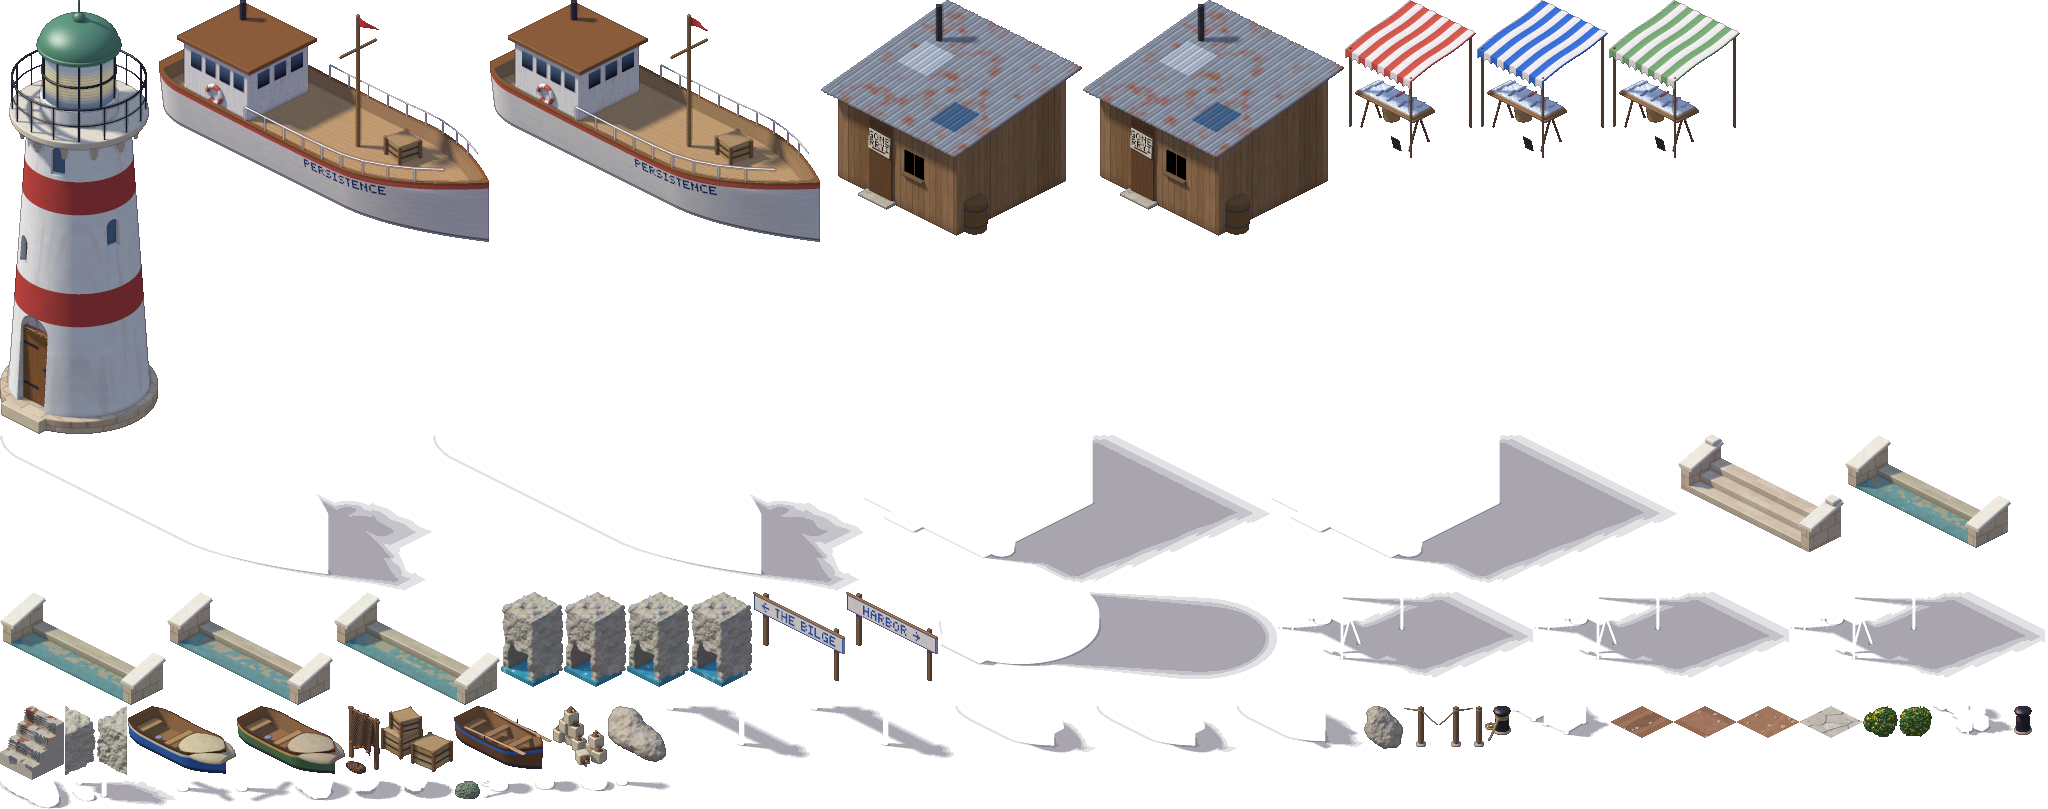
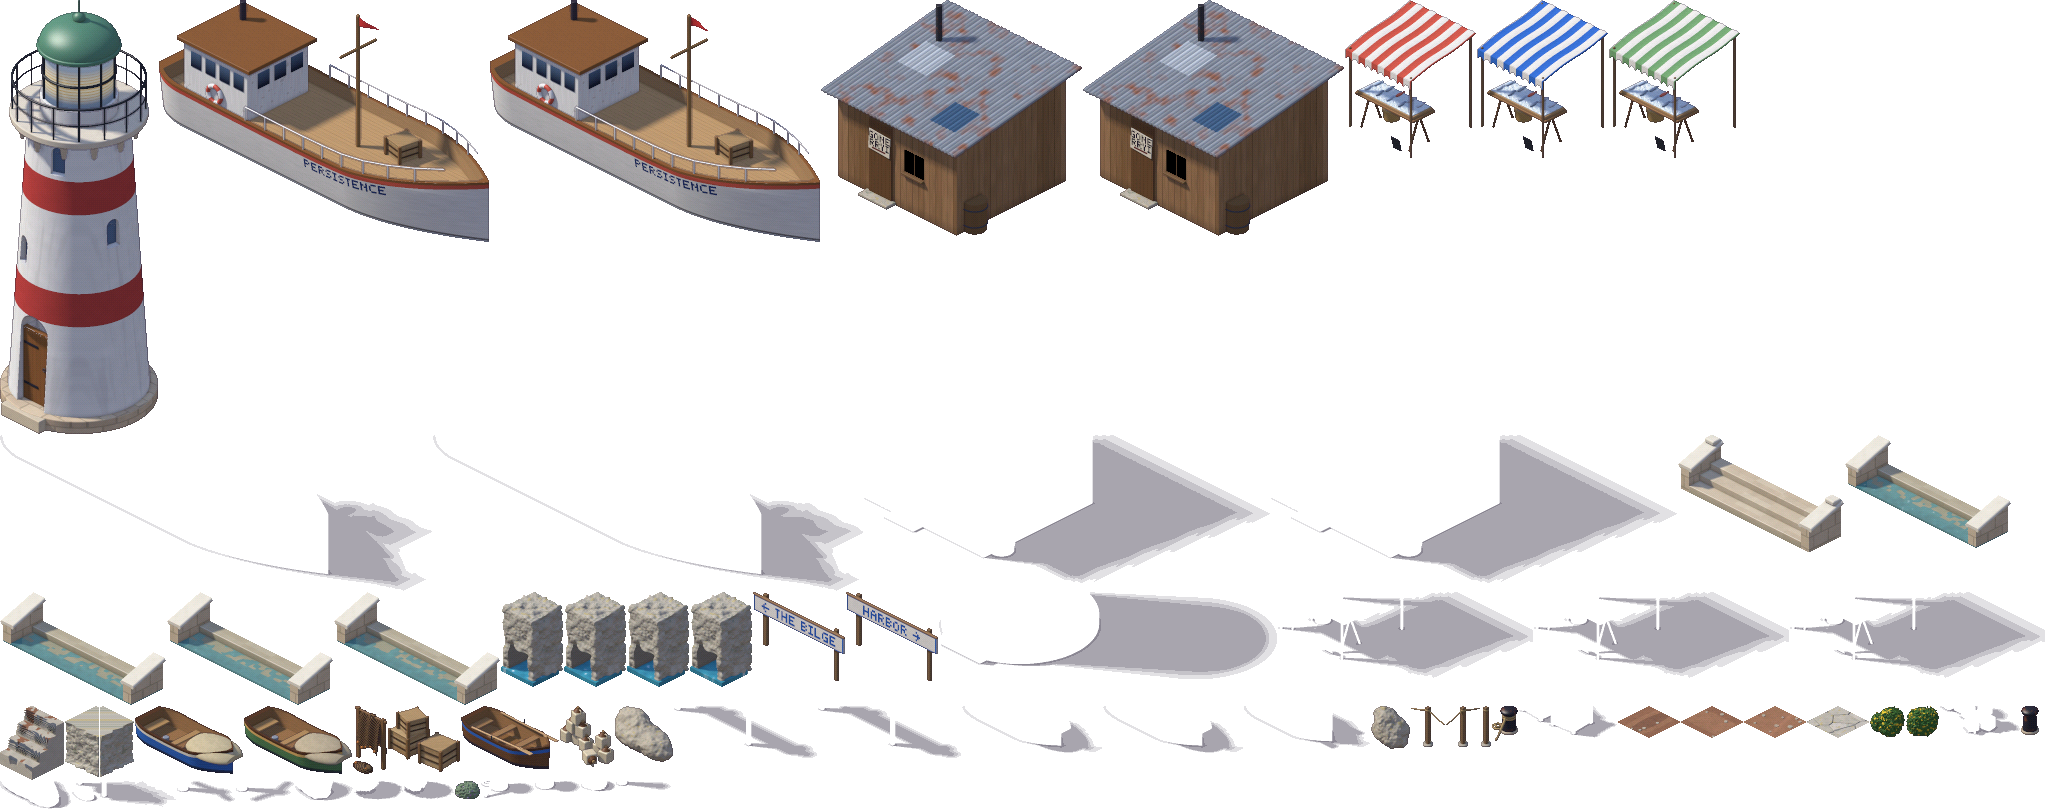
Goat Path cliffs: faces run to the tile's ends and their roughness repeats per tile and course, so neighbors meet without seams

Changed region(s): [[0.0312, 0.8653, 1.0, 0.958]]

diff --git a/game/assets/iso/manifest.js b/game/assets/iso/manifest.js
@@ -3453,18 +3453,18 @@ export default {"tile":{"w":64,"h":32,"zPx":40},"sheets":{"cheryl":{"image":"che
 "fall_down_1.shadow":[101,79,81,23,12,17]},"anims":{"water_down":{
 "frames":["water_down_0","water_down_1"],
 "ms":[700,500]}}},"act2_harbor":{"image":"act2_harbor.png","frames":{
-"bollard":[2014,706,18,29,9,25,1,1,22],
+"bollard":[2021,706,18,29,9,25,1,1,22],
 "bollard.shadow":[535,781,45,11,10,4],
-"bollard_rope":[1485,706,26,35,17,25,1,1,22],
+"bollard_rope":[1492,706,26,35,17,25,1,1,22],
 "bollard_rope.shadow":[481,781,53,17,18,6],
-"crates_pair":[381,706,72,66,36,50,2,1,40],
-"crates_pair.shadow":[1512,706,98,32,38,12],
-"nets":[346,706,34,68,18,57,1,1,52],
+"crates_pair":[388,706,72,66,36,50,2,1,40],
+"crates_pair.shadow":[1519,706,98,32,38,12],
+"nets":[353,706,34,68,18,57,1,1,52],
 "nets.shadow":[72,781,104,26,20,9],
 "sign_bilge":[753,592,92,89,48,71,3,1,52],
-"sign_bilge.shadow":[667,706,143,52,39,21],
+"sign_bilge.shadow":[674,706,143,52,39,21],
 "sign_harbor":[846,592,92,89,48,71,3,1,52],
-"sign_harbor.shadow":[811,706,143,52,39,21],
+"sign_harbor.shadow":[818,706,143,52,39,21],
 "persistence_0":[159,0,330,242,180,167,10,3,168],
 "persistence_0.shadow":[0,435,432,156,178,64],
 "persistence_1":[490,0,330,242,180,167,10,3,168],
@@ -3477,46 +3477,46 @@ export default {"tile":{"w":64,"h":32,"zPx":40},"sheets":{"cheryl":{"image":"che
 "fish_stall_blue.shadow":[1534,592,255,86,64,36],
 "fish_stall_green":[1609,0,131,158,66,126,2,2,96],
 "fish_stall_green.shadow":[1790,592,255,86,64,36],
-"rowboat":[454,706,98,63,50,44,2,1,20],
-"rowboat.shadow":[1237,706,126,43,50,16],
-"canal_boat_blue":[128,706,108,68,55,46,2,1,22],
-"canal_boat_blue.shadow":[955,706,140,47,56,18],
-"canal_boat_green":[237,706,108,68,55,46,2,1,22],
-"canal_boat_green.shadow":[1096,706,140,47,56,18],
+"rowboat":[461,706,98,63,50,44,2,1,20],
+"rowboat.shadow":[1244,706,126,43,50,16],
+"canal_boat_blue":[135,706,108,68,55,46,2,1,22],
+"canal_boat_blue.shadow":[962,706,140,47,56,18],
+"canal_boat_green":[244,706,108,68,55,46,2,1,22],
+"canal_boat_green.shadow":[1103,706,140,47,56,18],
 "wstairs_top":[1678,435,166,117,83,59,4,1,0],
 "wstairs_wet_0":[1845,435,166,113,83,47,4,1,0],
 "wstairs_wet_1":[0,592,166,113,83,47,4,1,0],
 "wstairs_wet_2":[167,592,166,113,83,47,4,1,0],
 "wstairs_wet_3":[334,592,166,113,83,47,4,1,0],
-"path_a":[1611,706,62,32,31,16,1,1,0],
-"path_b":[1674,706,62,32,31,16,1,1,0],
-"path_c":[1737,706,62,32,31,16,1,1,0],
-"rock_shelf":[1800,706,62,32,31,16,1,1,0],
+"path_a":[1618,706,62,32,31,16,1,1,0],
+"path_b":[1681,706,62,32,31,16,1,1,0],
+"path_c":[1744,706,62,32,31,16,1,1,0],
+"rock_shelf":[1807,706,62,32,31,16,1,1,0],
 "path_steps":[0,706,64,74,32,56,1,1,40],
-"cliff_s":[97,706,30,69,30,56,1,1,40],
-"cliff_e":[65,706,31,69,0,56,1,1,40],
-"rock_a":[1364,706,39,43,20,33,1,1,26],
+"cliff_s":[65,706,34,71,31,56,1,1,40],
+"cliff_e":[100,706,34,71,3,56,1,1,40],
+"rock_a":[1371,706,39,43,20,33,1,1,26],
 "rock_a.shadow":[295,781,58,20,19,8],
-"rock_b":[608,706,58,56,28,39,2,1,28],
+"rock_b":[615,706,58,56,28,39,2,1,28],
 "rock_b.shadow":[0,781,71,28,29,10],
-"gorse_a":[1863,706,35,31,20,30,1,1,22],
+"gorse_a":[1870,706,35,31,20,30,1,1,22],
 "gorse_a.shadow":[404,781,50,18,11,9],
-"gorse_b":[1899,706,33,31,17,29,1,1,22],
+"gorse_b":[1906,706,33,31,17,29,1,1,22],
 "gorse_b.shadow":[354,781,49,19,11,9],
 "thyme":[455,781,25,18,13,14,1,1,8],
 "thyme.shadow":[581,781,34,11,14,5],
-"rail_post":[1474,706,10,41,5,39,1,1,38],
+"rail_post":[1481,706,10,41,5,39,1,1,38],
 "rail_post.shadow":[616,781,55,9,6,2],
-"rail_x":[1404,706,34,41,17,39,1,1,38],
+"rail_x":[1411,706,34,41,17,39,1,1,38],
 "rail_x.shadow":[177,781,58,21,6,8],
-"rail_y":[1439,706,34,41,17,39,1,1,38],
+"rail_y":[1446,706,34,41,17,39,1,1,38],
 "rail_y.shadow":[236,781,58,21,6,8],
 "mott_shack_0":[821,0,261,236,131,179,4,4,118],
 "mott_shack_0.shadow":[864,435,406,148,115,66],
 "mott_shack_1":[1083,0,261,236,131,179,4,4,118],
 "mott_shack_1.shadow":[1271,435,406,148,115,66],
-"jugs":[553,706,54,61,30,44,2,1,34],
-"jugs.shadow":[1933,706,80,30,32,11],
+"jugs":[560,706,54,61,30,44,2,1,34],
+"jugs.shadow":[1940,706,80,30,32,11],
 "sea_cave_0":[501,592,62,95,32,75,1,1,60],
 "sea_cave_1":[564,592,62,95,32,75,1,1,60],
 "sea_cave_2":[627,592,62,95,32,75,1,1,60],

diff --git a/game/dev/iso-rooms.js b/game/dev/iso-rooms.js
@@ -19,6 +19,13 @@ export const roomsIso = {
     // The hundredth step's lid, Acts 4–6 and the epilogue, on a strip of landing.
     for (const [x, f] of [[17, 'landing_l'], [18, 'landing_r'], [19, 'landing_l'], [20, 'landing_r']]) for (const y of [3, 5]) S.add('act2_landmarks', f, x, y, 0, 1, 1, 0);
     for (const [x, f] of [[17, 'lid_boarded_l'], [18, 'lid_boarded_r'], [19, 'lid_chalked_l'], [20, 'lid_chalked_r']]) S.add('act2_landmarks', f, x, 4, 0, 1, 1, 0);
+    // A Goat Path cliff: a 4×2 shelf three courses up, faced south and east (act2_harbor:cliff_s/_e).
+    for (let x = 17; x < 21; x++) for (let y = 10; y < 12; y++) {
+      const south = y === 11 ? [0, 1, 2].map(() => ['cliff_s', 40]) : [];
+      const east = x === 20 ? [0, 1, 2].map(() => ['cliff_e', 40]) : [];
+      S.column(x, y, 0, south, east, null, 'act2_harbor');
+      S.add('act2_harbor', 'rock_shelf', x, y, 120, 1, 1, 0);
+    }
     return S.done();
   },
 };
